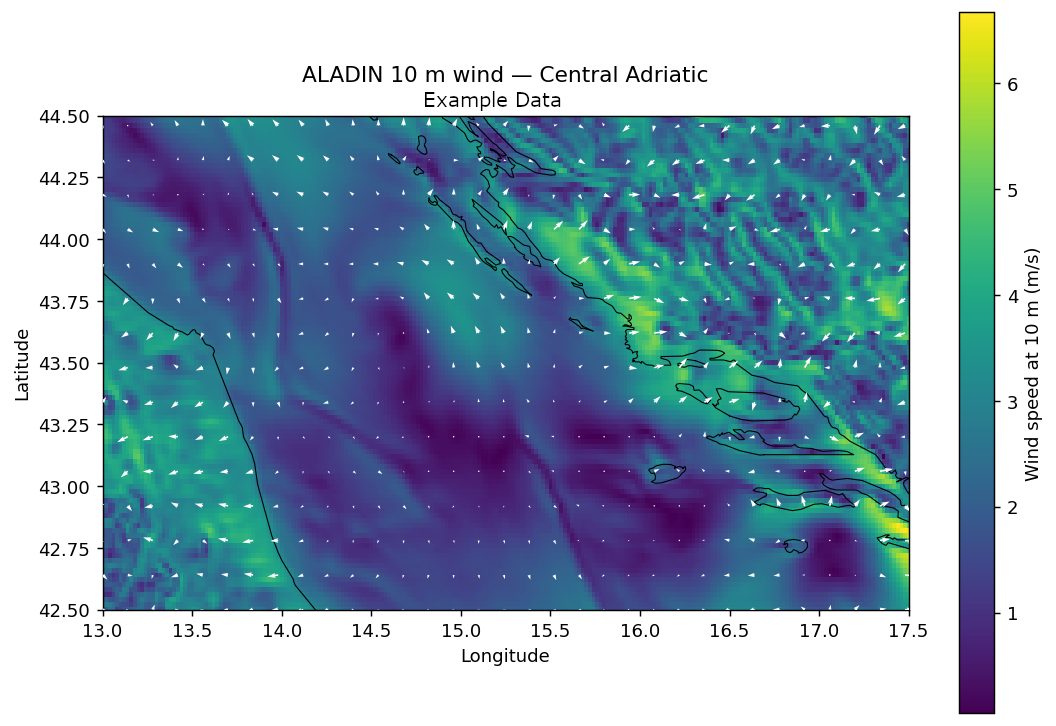
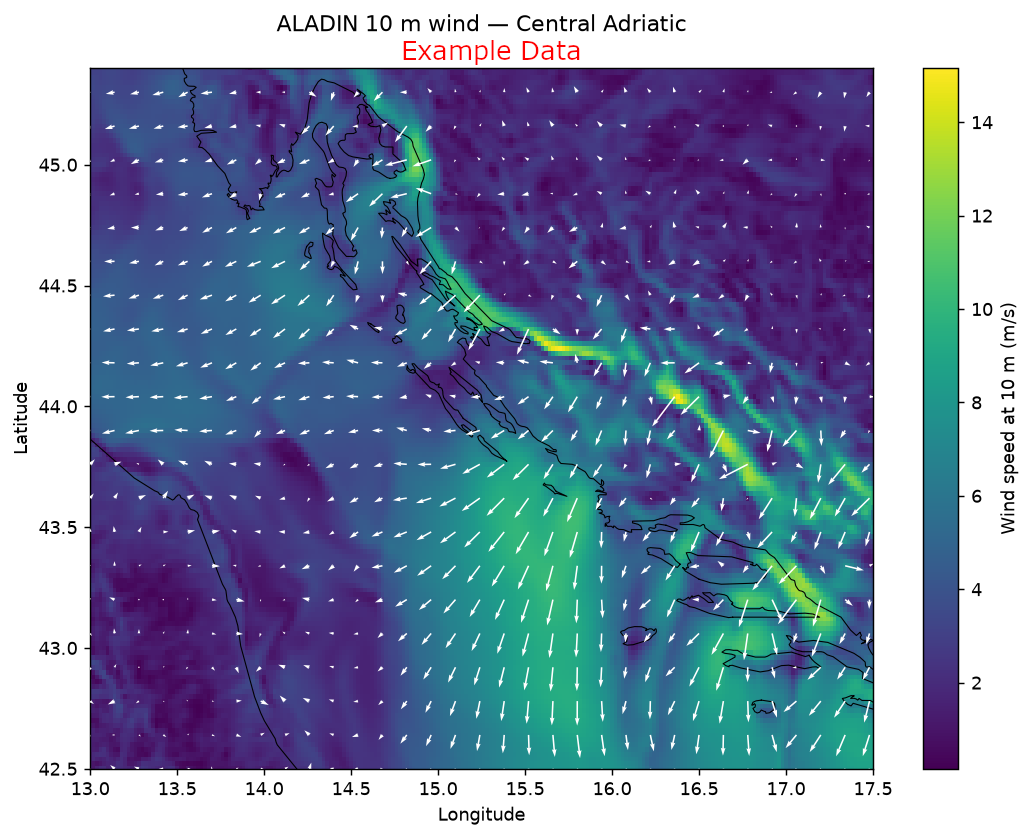
docs: README covers the Copernicus water file and the new pipeline
Shorter four-job pipeline description, a small Water File section, region and
time frame for both files, how the water file is written, and the new example
image (extended box).

diff --git a/README.md b/README.md
@@ -6,33 +6,30 @@ Automated downloader, cutter, reprojection, and merger of CHMI Aladin 2.3km GRIB
 
 ## Run Via GitHub Actions
 
-A workflow is scheduled every hour (GitHub fires only a few of these per day) and publishes the latest data to the `gh-pages` branch.
+A workflow is scheduled every hour (GitHub in practice starts it only a few times a day) and publishes the latest data to the `gh-pages` branch.
 No server setup required.
 
 The pipeline has four jobs:
 
-1. **check** — a lightweight Alpine-based container runs `check_availability.py`, which scrapes the CHMI OpenData directory and verifies that all 6 required variables for the latest model run (00/06/12/18 UTC) are present. It decides separately for the wind file and the water file whether that run still needs processing; if neither does, the other jobs are skipped.
+1. **check** — a lightweight Alpine-based container runs `check_availability.py`, which scrapes the CHMI OpenData directory and verifies that all 6 required variables for the latest model run (00/06/12/18 UTC) are present. It then decides separately for the wind file and the water file whether that run still needs processing. If neither does, the other jobs are skipped.
 
-2. **wind** — builds the processor image, downloads and processes the ALADIN GRIB files, renders a static wind map and validates the result.
+2. **wind** — builds the full processor image, downloads and processes the ALADIN GRIB files and renders a static wind map.
 
-3. **marine** — builds the same image and creates the Copernicus water file (see below). It does not depend on `wind`: if one of the two fails, the other still runs.
+3. **marine** — builds the same image and creates the Copernicus water file. It does not depend on `wind`: if one fails, the other still runs.
 
-4. **publish** — runs whenever something was processed, even if a job failed. Each file is taken from its new run if that job succeeded, otherwise the previously published file is kept. It writes a status line and, if a file is stale, a warning on the website and in the `gh-pages` README, then force-pushes a single-commit orphan to `gh-pages`. A failed file is retried at the next scheduled run.
+4. **publish** — assembles the site from the new files, or from the previously published ones if a job failed (so there is always a valid wind and water file), adds a status line and a warning if something is stale, and force-pushes a single-commit orphan to `gh-pages`.
 
-To test a change without publishing, dispatch the workflow from a branch with `dry_run` (the assembled site is uploaded as an artifact; only runs on `main` that are not dry runs deploy). `force` reprocesses the latest run, and `simulate` (with `dry_run`) makes the wind or marine job fail on purpose.
+A failed file is retried at the next scheduled run. To try a change without publishing, start the workflow from a branch with `dry_run`; `force` reprocesses the latest run. More detail for development is in [docs](docs/README.md).
 
 ## Wind Map
 
 Each processing run renders a static PNG of 10m wind speed and direction over the Adriatic bounding box, with a coastline overlay (clipped from Natural Earth 10m coastline data, bundled in [`adriatic_coastline.json`](adriatic_coastline.json)). It's generated with CDO + matplotlib and embedded directly in the [`gh-pages` README](https://github.com/k-schreiber/aladin-grib-adria/tree/gh-pages).
 
-## Water File (Copernicus Marine)
+## Water File
 
-`copernicus_adriacenter_<YYYYMMDDHH>.grb` (and `copernicus_adriacenter_latest.grb`) holds the surface current (ocean and tide, `uo`/`vo`) and the waves (height, direction and period, plus wind-sea and primary swell) from the Copernicus Mediterranean forecast. It covers the same hourly steps (0-72) of the same ALADIN run as the wind file, on the **native 1/24° grid, not regridded**, in GRIB1 with the same header conventions. Land points are missing values (a bitmap).
+`copernicus_adriacenter_<run>.grb` holds the surface current (ocean and tide) and the waves (height, direction, period, wind sea and swell) from the Copernicus Mediterranean forecast. It covers the same run and the same hourly steps as the wind file, on the native 1/24° grid (not regridded), in the same GRIB1 format. Land points are missing values. It always uses the newest Copernicus dataset version, so values can change when Copernicus releases a new model.
 
-- Code: [`marine_grib.py`](marine_grib.py) fetches a server-side subset, [`grib_validate.py`](grib_validate.py) checks the result, [`build_site.py`](build_site.py) assembles the published site.
-- **Credentials:** the `COPERNICUSMARINE_SERVICE_USERNAME` and `COPERNICUSMARINE_SERVICE_PASSWORD` repository secrets (a free Copernicus Marine account). For local tests put the same two keys into `secrets.yaml` (git-ignored) and run `python3 scripts/with_secrets.py -- python3 marine_grib.py --timestamp 2026112318 --outdir out`; the values are never printed.
-- **Dataset versions are pinned** in `marine_grib.py`, because a new version is a new model release with different values on the same grid. Each run logs newer versions and retirement dates: currents `202511` retires on **2027-01-12** (a newer `202611` exists), so the pin must be reviewed and changed before then.
-- Contains modified Copernicus Marine Service information: https://doi.org/10.48670/mds-00359 (currents), https://doi.org/10.48670/mds-00373 (waves).
+It needs a free Copernicus Marine account: store `COPERNICUSMARINE_SERVICE_USERNAME` and `COPERNICUSMARINE_SERVICE_PASSWORD` as repository secrets, or in a git-ignored `secrets.yaml` for local tests (`python3 scripts/with_secrets.py -- python3 marine_grib.py --timestamp 2026112318 --outdir out`).
 
 
 ## Run locally
@@ -65,6 +62,8 @@ Shell access:
 docker exec -it aladin-grib /bin/bash (or docker-compose exec aladin /bin/bash)
 ```
 
+The local container only builds the wind file; the water file is built by the workflow.
+
 ## Deploy on Fly.io
 
 ```bash
@@ -82,29 +81,34 @@ https://aladin-grib-adria.fly.dev/aladin_adriacenter_latest.grb
 python3 -m unittest discover -s tests -t .
 ```
 
-The tests need no network, Docker or CDO and run on every pull request. Tests that exercise `numpy`, `eccodes`, `requests` or `matplotlib` are skipped when those are not installed (`pip install numpy matplotlib requests beautifulsoup4 eccodes`).
+The tests need no network, Docker or CDO and run on every pull request. Tests that need `numpy`, `eccodes`, `requests` or `matplotlib` are skipped if those are not installed.
 
 ## About This Data
           
-- **Source**: Czech Hydrometeorological Institute (CHMI) - ALADIN model
-- **Model**: ALADIN Lambert 2.3km grid
+- **Source**: Czech Hydrometeorological Institute (CHMI) - ALADIN model, and Copernicus Marine (Mediterranean physics and waves)
 - **Region**: Central Adriatic Sea (13.0-17.5°E, 42.5-45.4°N)
-- **Resolution**: 0.02° (~2.2 km) regular lat-lon grid
-- **Update frequency**: Roughly every 6 hours by CHMI, processed here within 1 hour
-- **Variables included**:
+- **Time frame**: one ALADIN run, hourly steps 0-72, the same for both files
+- **Update frequency**: Roughly every 6 hours by CHMI, processed here when the workflow runs
+- **Wind file** (`aladin_adriacenter_<run>.grb`): ALADIN Lambert 2.3km grid, 0.02° (~2.2 km) regular lat-lon grid
   - Mean Sea Level Pressure (MSLP)
   - Wind Speed and Direction at 10m
   - Wind Gusts (u/v components)
   - Temperature at 2m
+- **Water file** (`copernicus_adriacenter_<run>.grb`): native 1/24° (~4 km) points
+  - Surface current (u/v components)
+  - Wave height, direction and period, wind sea and primary swell
+- Contains modified Copernicus Marine Service information: https://doi.org/10.48670/mds-00359 (currents), https://doi.org/10.48670/mds-00373 (waves)
 
 ## How It Works
 
-1. **Check** a lightweight Alpine container (`check_availability.py`) scrapes the CHMI OpenData directory and verifies all 6 required variables are present for the latest model run. If the timestamp is already cached, processing is skipped entirely.
-2. **Download** the latest ALADIN model data from CHMI every hour
-3. **Process** the GRIB files using CDO:
+1. **Check** a lightweight Alpine container (`check_availability.py`) scrapes the CHMI OpenData directory and verifies all 6 required variables are present for the latest model run. If that run is already processed, the work is skipped.
+2. **Download** the latest ALADIN model data from CHMI, and the Copernicus subset for the same run
+3. **Process** the wind GRIB files using CDO:
    - Reproject from Lambert to regular lat-lon grid
    - Subset to Adriatic region bounding box
    - Merge multiple variables into single file
+
+   The water file is written with eccodes and checked before it is used.
 4. **Publish** to this `gh-pages` branch for public access
           
 
